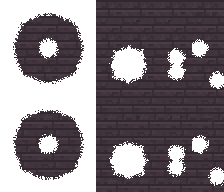
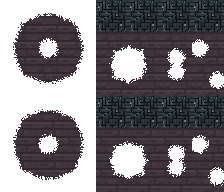
Ship Codex's gloomwood floor: dark woven parquet with glowing inlays, one 32 px pattern in every cell

Changed region(s): [[0.4062, 0.0, 1.0, 0.1875], [0.4062, 0.5, 1.0, 0.6875]]

diff --git a/tools/asset_generator/generate_assets.py b/tools/asset_generator/generate_assets.py
@@ -101,6 +101,7 @@ CONVERTED = ("tiles/skyway.png", "tiles/skyway_splat.png",
              # (docs/art/RUNS.md, 2026-09-16).
              "objects/skystonebrickwall.png", "objects/nightfellwall.png",
              "tiles/nimbusfloor_splat.png", "tiles/prismfloor_splat.png",
+             "tiles/gloomwoodfloor_splat.png",
              # Our own art for the three Outland mobs, which used to wear
              # vanilla's sheets by string ID.
              # Fen Wraith's body, composed by tools/resheet_mob.py from the
@@ -198,8 +199,7 @@ def main():
     gen_splats.build_splat(f"{out}/tiles/skystone_splat.png", gen_splats.material_skystone, 5, 0x51,
                            features=gen_splats.features_skystone)
     # stormslate_splat is the player's recolour (CONVERTED above).
-    gen_splats.build_splat(f"{out}/tiles/gloomwoodfloor_splat.png", gen_splats.material_gloomwood, 2, 0x6D,
-                           features=gen_splats.features_gloomwood)
+    # gloomwoodfloor_splat is Codex art (CONVERTED above).
     gen_splats.build_splat(f"{out}/tiles/mistsea_shallow_splat.png", gen_splats.material_mist(False), 1, 0x315E, frames=8)
     gen_splats.build_splat(f"{out}/tiles/mistsea_deep_splat.png", gen_splats.material_mist(True), 1, 0xD1EE, frames=8)
     gen_furniture.gen_marblechecker(f"{out}/tiles/marblechecker.png")
